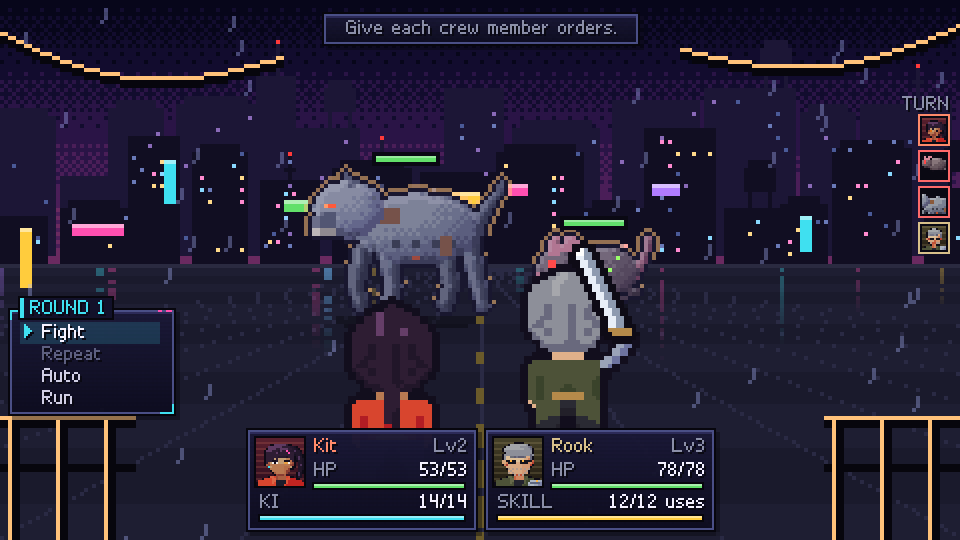
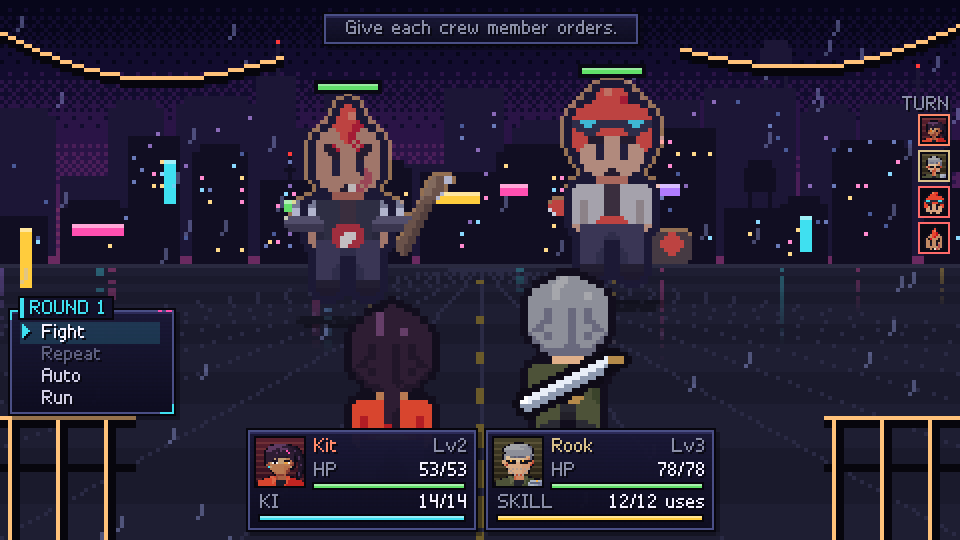
Round 12 (part 1): a swing that cuts through, and bosses that strike and flinch
- A fourth party frame, the follow-through: the blade swept down across the body with its lit
  trail, the fist at full reach, the pistol's kick; the swing is gather -> raise -> cut -> settle
- The Lurker's jaw drops wide on the strike and clamps on a hit (eyes to slits, lure guttering);
  the Warden's cannon blazes on the strike, and on a hit its visor dies, a plate cracks and it
  sparks; the Unbound Warden claws down at the crew, and folds in on a hit
- Shots: 13b swing (four beats), 16c the bosses

diff --git a/src/art/enemies.ts b/src/art/enemies.ts
@@ -30,11 +30,8 @@ let V = 0;
 let building = '';
 /** Which frame a maker is drawing: its idle stance, its strike, or taking a hit. */
 let POSE: 'idle' | 'attack' | 'hurt' = 'idle';
-/**
- * Everything the crew fights more than once has a drawn strike and a drawn flinch; the bosses
- * (one fight each, with their own staging) animate by motion alone.
- */
-const POSED = new Set(['punk', 'medic', 'slinger', 'brute', 'ghoul', 'sentinel', 'arcanist', 'rat', 'hound', 'drone', 'wisp', 'crab', 'maint', 'shade', 'turret', 'hunter']);
+/** Every sprite with a drawn strike and a drawn flinch: everything recurring, and the bosses. */
+const POSED = new Set(['punk', 'medic', 'slinger', 'brute', 'ghoul', 'sentinel', 'arcanist', 'rat', 'hound', 'drone', 'wisp', 'crab', 'maint', 'shade', 'turret', 'hunter', 'lurker', 'warden', 'warden_spirit']);
 
 /** A burst of sparks off a struck machine, lit in the glow layer too. */
 function sparks(p: Pix, g: Pix, x: number, y: number): void {
@@ -874,19 +871,23 @@ const CREATURES: Record<string, () => EnemyArt> = {
     p.limb([[70, 80], [74, 62], [70, 46], [60, 34], [50, 28]], 14, 9, body);
     // Belly plates
     for (let i = 0; i < 6; i++) p.ellipse(72 - i * 2.5, 70 - i * 7, 6, 2, '#5a7a6a');
-    // Head
+    // Head. On the strike the jaw drops wide, lower teeth a hand lower; on a hit it clamps shut.
     p.ball(40, 28, 20, 14, '#2f5252');
-    p.poly([[18, 30], [40, 36], [58, 36], [40, 44], [22, 38]], '#1a2a2a');
+    const gape = POSE === 'attack' ? 7 : POSE === 'hurt' ? -4 : 0;
+    p.poly([[18, 30], [40, 36], [58, 36], [40 + (gape > 0 ? 3 : 0), 44 + gape], [22, 38 + Math.max(0, gape - 2)]], '#1a2a2a');
+    if (gape > 0) p.poly([[26, 40], [40, 44], [52, 40], [42, 48]], '#3a0a14');
     // Teeth
     for (let x = 24; x < 54; x += 3) {
       p.poly([[x, 35], [x + 2, 35], [x + 1, 39]], '#e8e0cc');
-      p.poly([[x + 1, 43], [x + 3, 43], [x + 2, 39]], '#d8d0bc');
+      p.poly([[x + 1, 43 + gape], [x + 3, 43 + gape], [x + 2, 39 + gape]], '#d8d0bc');
     }
-    // Eyes
-    p.ellipse(30, 22, 3, 2.5, '#0a1414');
-    p.ellipse(48, 21, 3, 2.5, '#0a1414');
-    p.set(30, 22, '#ffe07a');
-    p.set(48, 21, '#ffe07a');
+    // Eyes (screwed to slits when it's hit)
+    p.ellipse(30, 22, 3, POSE === 'hurt' ? 1 : 2.5, '#0a1414');
+    p.ellipse(48, 21, 3, POSE === 'hurt' ? 1 : 2.5, '#0a1414');
+    if (POSE !== 'hurt') {
+      p.set(30, 22, '#ffe07a');
+      p.set(48, 21, '#ffe07a');
+    }
     // Angler lure
     p.limb([[40, 15], [36, 6], [28, 2], [22, 6]], 1.2, 0.8, '#3a5a5a');
     p.ball(21, 8, 3, 3, '#6affc8');
@@ -899,9 +900,16 @@ const CREATURES: Record<string, () => EnemyArt> = {
       p.set(x, y, '#6affc8');
       g.set(x, y, '#9affe0');
     }
-    g.ellipse(21, 8, 2.5, 2.5, '#b8ffe8');
-    g.set(30, 22, '#ffe07a');
-    g.set(48, 21, '#ffe07a');
+    // The lure flares on the strike and gutters on a hit; so do the eyes.
+    if (POSE === 'attack') g.ball(21, 8, 4.5, 4.5, '#dfffff');
+    else if (POSE !== 'hurt') g.ellipse(21, 8, 2.5, 2.5, '#b8ffe8');
+    if (POSE === 'attack') {
+      g.ellipse(30, 22, 2, 1.5, '#fff0a0');
+      g.ellipse(48, 21, 2, 1.5, '#fff0a0');
+    } else if (POSE !== 'hurt') {
+      g.set(30, 22, '#ffe07a');
+      g.set(48, 21, '#ffe07a');
+    }
     // Waterline foam
     for (let x = 0; x < 120; x++) if (p.get(x, 76) || p.get(x, 74)) p.set(x, 76, '#9ac8d8');
     return art(p, 'sway', 0, g);
@@ -948,16 +956,32 @@ const CREATURES: Record<string, () => EnemyArt> = {
     p.rect(40, 10, 16, 12, '#5a6070');
     p.rect(40, 10, 16, 2, '#7a8090');
     p.rect(42, 15, 12, 3, '#1a0a0a');
-    for (let x = 43; x < 53; x++) p.set(x, 16, '#ff3a3a');
+    if (POSE !== 'hurt') for (let x = 43; x < 53; x++) p.set(x, 16, '#ff3a3a');
     // K-M mark
     p.rect(30, 30, 3, 8, '#3f8af0');
     p.rect(63, 30, 3, 8, '#3f8af0');
+    if (POSE === 'attack') {
+      // Firing: the cannon's mouth blazes and the beam's first metre leaves it; the left arm braces.
+      p.rect(4, 44, 14, 8, '#5a6070');
+      for (let x = 44; x < 62; x++) p.set(x, 14, x % 2 ? '#dffcff' : '#9af0ff');
+      p.ball(60, 14, 4, 4, '#dffcff');
+    } else if (POSE === 'hurt') {
+      // Hit: the visor goes dark, a plate cracks, sparks off the shoulder and the core stutters.
+      p.line(26, 24, 34, 36, '#3a3f4c');
+      p.line(34, 36, 31, 44, '#3a3f4c');
+      sparks(p, g, 82, 22);
+      sparks(p, g, 30, 30);
+    }
     // Glow
-    g.ball(48, 40, 7, 6.5, '#8a6aff');
+    g.ball(48, 40, POSE === 'hurt' ? 4 : 7, POSE === 'hurt' ? 3.5 : 6.5, POSE === 'hurt' ? '#4a3a8a' : '#8a6aff');
     g.ellipse(45, 38, 1, 1.5, '#e0d0ff');
     g.ellipse(51, 38, 1, 1.5, '#e0d0ff');
-    for (let x = 43; x < 53; x++) g.set(x, 16, '#ff5a5a');
+    if (POSE !== 'hurt') for (let x = 43; x < 53; x++) g.set(x, 16, '#ff5a5a');
     g.ellipse(62, 14, 1.5, 2.5, '#9af0ff');
+    if (POSE === 'attack') {
+      for (let x = 44; x < 62; x++) g.set(x, 14, '#dffcff');
+      g.ball(60, 14, 5, 5, '#ffffff');
+    }
     p.outline();
     return { canvas: p.toCanvas(), glow: g.toCanvas(), idle: 'breathe', shadow: 70 };
   },
@@ -970,17 +994,28 @@ const CREATURES: Record<string, () => EnemyArt> = {
     // Spectral body
     p.ball(48, 52, 22, 30, body);
     p.limb([[48, 78], [40, 86], [48, 94]], 12, 2, shade(body, -0.2));
-    // Arms flung wide
-    p.limb([[30, 40], [18, 30], [6, 14]], 6, 2.5, body);
-    p.limb([[66, 40], [78, 30], [90, 14]], 6, 2.5, body);
-    for (const [x, y] of [[4, 10], [8, 9], [3, 14]] as const) p.line(6, 14, x, y, '#b8a0ff');
-    for (const [x, y] of [[92, 10], [88, 9], [93, 14]] as const) p.line(90, 14, x, y, '#b8a0ff');
+    // Arms flung wide; on the strike they claw down at the crew, on a hit they fold in.
+    if (POSE === 'attack') {
+      p.limb([[30, 40], [18, 56], [10, 72]], 6, 2.5, body);
+      p.limb([[66, 40], [78, 56], [86, 72]], 6, 2.5, body);
+      for (const [x, y] of [[6, 76], [10, 78], [13, 76]] as const) p.line(10, 72, x, y, '#b8a0ff');
+      for (const [x, y] of [[90, 76], [86, 78], [83, 76]] as const) p.line(86, 72, x, y, '#b8a0ff');
+    } else if (POSE === 'hurt') {
+      p.limb([[30, 40], [24, 30], [34, 22]], 6, 2.5, body);
+      p.limb([[66, 40], [72, 30], [62, 22]], 6, 2.5, body);
+    } else {
+      p.limb([[30, 40], [18, 30], [6, 14]], 6, 2.5, body);
+      p.limb([[66, 40], [78, 30], [90, 14]], 6, 2.5, body);
+      for (const [x, y] of [[4, 10], [8, 9], [3, 14]] as const) p.line(6, 14, x, y, '#b8a0ff');
+      for (const [x, y] of [[92, 10], [88, 9], [93, 14]] as const) p.line(90, 14, x, y, '#b8a0ff');
+    }
     // Head
     p.ball(48, 22, 13, 13, mix(body, '#ffffff', 0.15));
-    // Screaming face
-    p.ellipse(42, 20, 2.5, 3.5, '#0a0614');
-    p.ellipse(54, 20, 2.5, 3.5, '#0a0614');
-    p.ellipse(48, 30, 4, 6, '#0a0614');
+    // Screaming face (wider on the strike; eyes crushed shut on a hit)
+    p.ellipse(42, 20, 2.5, POSE === 'hurt' ? 1 : 3.5, '#0a0614');
+    p.ellipse(54, 20, 2.5, POSE === 'hurt' ? 1 : 3.5, '#0a0614');
+    p.ellipse(48, 30, POSE === 'attack' ? 5.5 : 4, POSE === 'attack' ? 8 : POSE === 'hurt' ? 3 : 6, '#0a0614');
+    if (POSE === 'hurt') for (const [x, y] of [[40, 50], [56, 58], [46, 66], [60, 44]] as const) p.ellipse(x, y, 2.4, 2, '#2a1a4a');
     // Snapping chains
     for (const [x0, y0, x1, y1] of [[20, 52, 4, 60], [76, 52, 92, 60], [30, 70, 18, 84], [66, 70, 78, 84]] as const) {
       const n = 6;

diff --git a/src/art/battlers.ts b/src/art/battlers.ts
@@ -7,8 +7,13 @@ import { backGrid, paint, type CharLook } from './chars';
 import { Pix, scale2x } from './pix';
 import { surface } from '../engine/canvas';
 
-export type Pose = 'idle' | 'attack' | 'cast' | 'item' | 'hurt' | 'victory' | 'thrust' | 'brace' | 'aim';
-export const POSES: Pose[] = ['idle', 'attack', 'cast', 'item', 'hurt', 'victory', 'thrust', 'brace', 'aim'];
+/**
+ * 'attack' is the weapon raised to strike; 'strike' is the follow-through a beat later (the blade swept
+ * down across the body, the fist punched out to full reach, the pistol kicking), so a swing reads
+ * as an arc, not a pose that moves.
+ */
+export type Pose = 'idle' | 'attack' | 'strike' | 'cast' | 'item' | 'hurt' | 'victory' | 'thrust' | 'brace' | 'aim';
+export const POSES: Pose[] = ['idle', 'attack', 'strike', 'cast', 'item', 'hurt', 'victory', 'thrust', 'brace', 'aim'];
 
 export interface Battler {
   frames: Record<Pose, HTMLCanvasElement>;
@@ -89,6 +94,16 @@ function drawWeapon(p: Pix, w: Weapon, pose: Pose, hand: [number, number], rig: 
       return;
     }
     if (layer !== 'front') return;
+    if (pose === 'strike') {
+      // The cut, finished: the blade swept down and out across the body, point low on the left.
+      p.rect(hx - 1, hy, 3, 1, '#b58a4a');
+      for (let i = 1; i <= 11; i++) {
+        const x = hx - i, y = hy + Math.round(i * 0.45);
+        p.set(x, y, i === 11 ? '#ffffff' : '#e8eef8');
+        p.set(x, y + 1, '#8e9ab0');
+      }
+      return;
+    }
     // Drawn blade held high, angled over the head.
     const len = pose === 'victory' ? 11 : 10;
     const dx = pose === 'victory' ? 0 : -1;
@@ -113,13 +128,13 @@ function drawWeapon(p: Pix, w: Weapon, pose: Pose, hand: [number, number], rig: 
     return;
   }
   if (w === 'pistol') {
-    if (layer !== 'front' || (pose !== 'attack' && pose !== 'victory')) return;
+    if (layer !== 'front' || (pose !== 'attack' && pose !== 'strike' && pose !== 'victory')) return;
     p.rect(hx, hy - 3, 2, 3, '#2a2c34');
     p.set(hx, hy - 3, '#5a5e6c');
     return;
   }
   // Fists: knuckle plates on a raised hand.
-  if (layer === 'front' && (pose === 'attack' || pose === 'victory')) {
+  if (layer === 'front' && (pose === 'attack' || pose === 'strike' || pose === 'victory')) {
     p.set(hx, hy, '#c8ccd8');
     p.set(hx + 1, hy, '#8a8e9c');
   }
@@ -139,6 +154,29 @@ function drawGlow(g: Pix, id: string, w: Weapon, pose: Pose, hand: [number, numb
       g.set(x + (x < cx ? 1 : 0), y - 1, tint);
     }
     return true;
+  }
+  if (pose === 'strike') {
+    if (w === 'katana' && other) {
+      // The cut's trail: an arc from where the blade was raised to where it finished.
+      const [cx, cy] = other;
+      for (let a = -1.75; a <= -0.1; a += 0.09) {
+        const x = Math.round(cx + Math.cos(a + Math.PI) * 12), y = Math.round(cy + Math.sin(a + Math.PI) * -10);
+        g.set(x, y, '#7a8aa8');
+        g.set(x, y + 1, '#4a5670');
+      }
+      return true;
+    }
+    if (w === 'fists' || w === 'pistol') {
+      // Full reach: a flare at the fist, or the muzzle's kick.
+      const [fx, fy] = w === 'pistol' ? [hx, hy - 5] : [hx, hy - 1];
+      g.ellipse(fx, fy, 3, 3, w === 'pistol' ? '#ffe07a' : tint);
+      g.set(fx, fy, '#ffffff');
+      return true;
+    }
+    if (w === 'staff') {
+      g.ellipse(hx + 1, hy - 10, 3, 3, tint);
+      return true;
+    }
   }
   if (pose === 'attack') {
     if (w === 'fists') {
@@ -184,6 +222,12 @@ function pose(id: string, look: CharLook, which: Pose): { canvas: HTMLCanvasElem
   let hand: [number, number] = [rig.right, rig.hand];
   let other: [number, number] | undefined;
   if (which === 'attack') hand = raise(rows, rig, 'right', weapon === 'pistol' ? 5 : 4);
+  else if (which === 'strike') {
+    // Follow-through: a blade arm comes down and across; a fist reaches to its full height.
+    hand = weapon === 'katana' ? raise(rows, rig, 'right', 1, 3) : raise(rows, rig, 'right', weapon === 'pistol' ? 6 : 6, 0);
+    // The cut's trail is centred on the shoulder it swings from.
+    if (weapon === 'katana') other = [rig.right - 3, rig.shoulder + 1];
+  }
   else if (which === 'victory') hand = raise(rows, rig, 'right', 6, 1);
   else if (which === 'item') hand = raise(rows, rig, 'right', 3);
   else if (which === 'cast') {
@@ -204,7 +248,7 @@ function pose(id: string, look: CharLook, which: Pose): { canvas: HTMLCanvasElem
   } else if (which === 'aim') {
     hand = raise(rows, rig, 'right', 5, 2);
   }
-  if (weapon === 'staff' && which !== 'attack' && which !== 'cast' && which !== 'victory' && which !== 'thrust') hand = [rig.right, rig.hand];
+  if (weapon === 'staff' && which !== 'attack' && which !== 'strike' && which !== 'cast' && which !== 'victory' && which !== 'thrust') hand = [rig.right, rig.hand];
   const body = paint(rows, pal);
   const w = body.width + PAD_X * 2, h = body.height + PAD_TOP;
   const handPx = px(hand[0], hand[1]);

diff --git a/e2e/shots.spec.ts b/e2e/shots.spec.ts
@@ -143,7 +143,7 @@ test('13b the swing, beat by beat', async ({ page }) => {
   await page.waitForTimeout(3200);
   // Freeze the simulation (rendering carries on), then pose Rook on each beat of a swing.
   await sj(page, '(sj.__tick = sj.game.tick, sj.game.tick = () => undefined, true)');
-  for (const [k, name] of [[3, 'gather'], [7, 'snap'], [14, 'settle']] as const) {
+  for (const [k, name] of [[3, 'gather'], [7, 'raise'], [9, 'cut'], [15, 'settle']] as const) {
     await sj(page, `(() => { const s = sj.game.top, r = s.battle.party.find((u) => u.key === 'rook'); const d = s.d(r.uid); d.pose = 'attack'; d.poseT = 34 - ${k}; return true; })()`);
     await page.waitForTimeout(120);
     await shot(page, `13b-swing-${name}`);
@@ -232,6 +232,41 @@ test('16b every recurring enemy: idle, strike, flinch', async ({ page }) => {
     document.body.appendChild(c);
   });
   await page.locator('#sheet').screenshot({ path: `${OUT}/16b-enemy-poses.png` });
+});
+
+test('16c the bosses: idle, strike, flinch', async ({ page }) => {
+  await page.goto('/?debug');
+  await page.waitForTimeout(600);
+  await page.evaluate(async () => {
+    const url = '/src/art/enemies.ts';
+    const { enemyArt } = (await import(/* @vite-ignore */ url)) as typeof import('../src/art/enemies');
+    const keys = ['lurker', 'warden', 'warden_spirit'];
+    const cell = 200;
+    const c = document.createElement('canvas');
+    c.id = 'sheet';
+    c.width = 3 * cell;
+    c.height = keys.length * cell;
+    Object.assign(c.style, { position: 'fixed', left: '0', top: '0', zIndex: '99', background: '#12101c' });
+    const g = c.getContext('2d')!;
+    g.imageSmoothingEnabled = false;
+    g.fillStyle = '#12101c';
+    g.fillRect(0, 0, c.width, c.height);
+    keys.forEach((k, row) => {
+      const a = enemyArt(k);
+      [a, a.attack ?? a, a.hurt ?? a].forEach((f, j) => {
+        const s = Math.min(2, (cell - 8) / Math.max(f.canvas.width, f.canvas.height));
+        const x = j * cell + 4, y = row * cell + 4;
+        g.drawImage(f.canvas, x, y, f.canvas.width * s, f.canvas.height * s);
+        if (f.glow) {
+          g.globalCompositeOperation = 'lighter';
+          g.drawImage(f.glow, x, y, f.canvas.width * s, f.canvas.height * s);
+          g.globalCompositeOperation = 'source-over';
+        }
+      });
+    });
+    document.body.appendChild(c);
+  });
+  await page.locator('#sheet').screenshot({ path: `${OUT}/16c-boss-poses.png` });
 });
 
 test('16 bosses', async ({ page }) => {

diff --git a/src/scenes/battlekit/motion.ts b/src/scenes/battlekit/motion.ts
@@ -7,8 +7,12 @@
 export const PARTY_POSE_T = 34;
 
 export interface SwingBeat {
-  /** gather: drawn in, crouching; strike: the snap forward; settle: easing back to the line. */
-  phase: 'gather' | 'strike' | 'settle';
+  /**
+   * gather: drawn in, crouching (the brace frame); raise: the snap forward, weapon up (the attack
+   * frame); cut: the weapon swept through, its trail lit (the strike frame); settle: the follow-
+   * through held while easing back to the line.
+   */
+  phase: 'gather' | 'raise' | 'cut' | 'settle';
   /** Battle pixels up the screen, toward the enemy (negative: a crouch). */
   lift: number;
   /** Speed-smear copies to trail behind the body (0: none). */
@@ -16,12 +20,14 @@ export interface SwingBeat {
 }
 
 /**
- * A melee swing in three beats, `k` frames into the pose: six frames gathering (the brace frame,
- * sinking a little), a snap forward on the strike frame with a smear behind it, then a settle
- * back down to the line. The hit's effects start at frame 8, just after the snap lands.
+ * A melee swing in four beats, `k` frames into the pose: six frames gathering (sinking a little),
+ * two raising the weapon on the snap forward with a smear behind, four for the cut itself (the
+ * follow-through frame, its trail lit), then a settle back down to the line holding the follow-
+ * through. The weapon changes angle three times; the hit's effects start at frame 8, on the cut.
  */
 export function swingBeat(k: number): SwingBeat {
   if (k < 6) return { phase: 'gather', lift: -Math.min(3, Math.floor(k / 2)), smear: 0 };
-  if (k < 9) return { phase: 'strike', lift: 16 - (k - 6), smear: 9 - k };
-  return { phase: 'settle', lift: Math.max(0, Math.round(14 - (k - 9) * 0.7)), smear: 0 };
+  if (k < 8) return { phase: 'raise', lift: 16 - (k - 6), smear: 8 - k + 1 };
+  if (k < 12) return { phase: 'cut', lift: 14 - (k - 8) * 0.5, smear: 0 };
+  return { phase: 'settle', lift: Math.max(0, Math.round(12 - (k - 12) * 0.6)), smear: 0 };
 }

diff --git a/src/scenes/battlekit/render.ts b/src/scenes/battlekit/render.ts
@@ -296,7 +296,10 @@ export class BattleRenderer {
     const down = dd.hp <= 0 && p.hp <= 0;
     // Melee moves play in beats: drawn in (the brace frame), the snap forward, the settle.
     const beat = dd.poseT > 0 && (dd.pose === 'attack' || dd.pose === 'thrust') ? swingBeat(PARTY_POSE_T - dd.poseT) : null;
-    const pose: Pose = dd.poseT > 0 ? (beat?.phase === 'gather' ? 'brace' : dd.pose) : 'idle';
+    // The frame for each beat: gathered (brace), raised (the pose itself), then swept through
+    // (strike) for the cut and the settle. Palm strikes (thrust) keep their own frame throughout.
+    const through = beat && dd.pose === 'attack' && (beat.phase === 'cut' || beat.phase === 'settle');
+    const pose: Pose = dd.poseT > 0 ? (beat?.phase === 'gather' ? 'brace' : through ? 'strike' : dd.pose) : 'idle';
     const frame = art.frames[pose];
     let ox = 0;
     if (dd.shake > 0) ox = dd.shake % 4 < 2 ? 2 : -2;
@@ -330,7 +333,8 @@ export class BattleRenderer {
       g.globalAlpha = 1;
     }
     g.drawImage(frame, x, y);
-    const glow = art.glow[pose];
+    // The cut's lit trail shows only while the cut is happening, not through the settle.
+    const glow = pose === 'strike' && beat?.phase === 'settle' ? undefined : art.glow[pose];
     if (glow) {
       g.globalCompositeOperation = 'lighter';
       g.globalAlpha = 0.75 + 0.25 * Math.sin(f * 0.5);

diff --git a/tests/motion.test.ts b/tests/motion.test.ts
@@ -5,10 +5,13 @@ import { direction, shakeOffset } from '../src/engine/shake';
 import { PARTY_POSE_T, swingBeat } from '../src/scenes/battlekit/motion';
 
 describe('the swing', () => {
-  it('gathers (crouching), snaps forward with a smear, then settles back to the line', () => {
+  it('gathers (crouching), snaps up with a smear, cuts through, then settles back to the line', () => {
     const beats = Array.from({ length: PARTY_POSE_T }, (_, k) => swingBeat(k));
     expect(beats.slice(0, 6).every((b) => b.phase === 'gather' && b.lift <= 0 && b.smear === 0)).toBe(true);
-    expect(beats[6]!.phase).toBe('strike');
+    expect(beats[6]!.phase).toBe('raise');
+    // The cut lands on frame 8, when the hit's effects start.
+    expect(beats[8]!.phase).toBe('cut');
+    expect(beats.map((b) => b.phase).filter((p, i, a) => p !== a[i - 1])).toEqual(['gather', 'raise', 'cut', 'settle']);
     expect(beats[6]!.lift).toBeGreaterThanOrEqual(14);
     expect(beats[6]!.smear).toBeGreaterThan(0);
     // The snap is the fastest move of the swing: one frame from crouch to full reach.
